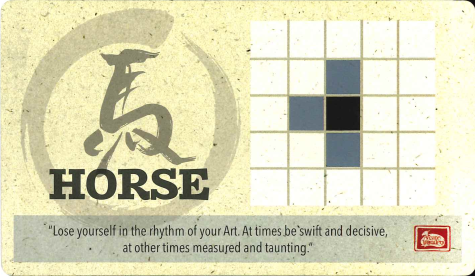
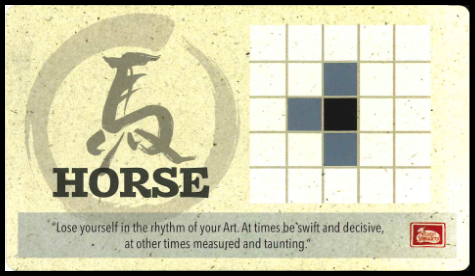
Fixed shit for torben

diff --git a/ImageTk.py b/ImageTk.py
@@ -1,0 +1,292 @@
+#
+# The Python Imaging Library.
+# $Id$
+#
+# a Tk display interface
+#
+# History:
+# 96-04-08 fl   Created
+# 96-09-06 fl   Added getimage method
+# 96-11-01 fl   Rewritten, removed image attribute and crop method
+# 97-05-09 fl   Use PyImagingPaste method instead of image type
+# 97-05-12 fl   Minor tweaks to match the IFUNC95 interface
+# 97-05-17 fl   Support the "pilbitmap" booster patch
+# 97-06-05 fl   Added file= and data= argument to image constructors
+# 98-03-09 fl   Added width and height methods to Image classes
+# 98-07-02 fl   Use default mode for "P" images without palette attribute
+# 98-07-02 fl   Explicitly destroy Tkinter image objects
+# 99-07-24 fl   Support multiple Tk interpreters (from Greg Couch)
+# 99-07-26 fl   Automatically hook into Tkinter (if possible)
+# 99-08-15 fl   Hook uses _imagingtk instead of _imaging
+#
+# Copyright (c) 1997-1999 by Secret Labs AB
+# Copyright (c) 1996-1997 by Fredrik Lundh
+#
+# See the README file for information on usage and redistribution.
+#
+
+try:
+    import tkinter
+except ImportError:
+    import Tkinter
+    tkinter = Tkinter
+    del Tkinter
+
+from PIL import Image
+
+
+# --------------------------------------------------------------------
+# Check for Tkinter interface hooks
+
+_pilbitmap_ok = None
+
+
+def _pilbitmap_check():
+    global _pilbitmap_ok
+    if _pilbitmap_ok is None:
+        try:
+            im = Image.new("1", (1, 1))
+            tkinter.BitmapImage(data="PIL:%d" % im.im.id)
+            _pilbitmap_ok = 1
+        except tkinter.TclError:
+            _pilbitmap_ok = 0
+    return _pilbitmap_ok
+
+
+# --------------------------------------------------------------------
+# PhotoImage
+
+class PhotoImage:
+    """
+    A Tkinter-compatible photo image.  This can be used
+    everywhere Tkinter expects an image object.  If the image is an RGBA
+    image, pixels having alpha 0 are treated as transparent.
+
+    The constructor takes either a PIL image, or a mode and a size.
+    Alternatively, you can use the **file** or **data** options to initialize
+    the photo image object.
+
+    :param image: Either a PIL image, or a mode string.  If a mode string is
+                  used, a size must also be given.
+    :param size: If the first argument is a mode string, this defines the size
+                 of the image.
+    :keyword file: A filename to load the image from (using
+                   ``Image.open(file)``).
+    :keyword data: An 8-bit string containing image data (as loaded from an
+                   image file).
+    """
+
+    def __init__(self, image=None, size=None, **kw):
+
+        # Tk compatibility: file or data
+        if image is None:
+            if "file" in kw:
+                image = Image.open(kw["file"])
+                del kw["file"]
+            elif "data" in kw:
+                from io import BytesIO
+                image = Image.open(BytesIO(kw["data"]))
+                del kw["data"]
+
+        if hasattr(image, "mode") and hasattr(image, "size"):
+            # got an image instead of a mode
+            mode = image.mode
+            if mode == "P":
+                # palette mapped data
+                image.load()
+                try:
+                    mode = image.palette.mode
+                except AttributeError:
+                    mode = "RGB"  # default
+            size = image.size
+            kw["width"], kw["height"] = size
+        else:
+            mode = image
+            image = None
+
+        if mode not in ["1", "L", "RGB", "RGBA"]:
+            mode = Image.getmodebase(mode)
+
+        self.__mode = mode
+        self.__size = size
+        self.__photo = tkinter.PhotoImage(**kw)
+        self.tk = self.__photo.tk
+        if image:
+            self.paste(image)
+
+    def __del__(self):
+        name = self.__photo.name
+        self.__photo.name = None
+        try:
+            self.__photo.tk.call("image", "delete", name)
+        except:
+            pass  # ignore internal errors
+
+    def __str__(self):
+        """
+        Get the Tkinter photo image identifier.  This method is automatically
+        called by Tkinter whenever a PhotoImage object is passed to a Tkinter
+        method.
+
+        :return: A Tkinter photo image identifier (a string).
+        """
+        return str(self.__photo)
+
+    def width(self):
+        """
+        Get the width of the image.
+
+        :return: The width, in pixels.
+        """
+        return self.__size[0]
+
+    def height(self):
+        """
+        Get the height of the image.
+
+        :return: The height, in pixels.
+        """
+        return self.__size[1]
+
+    def paste(self, im, box=None):
+        """
+        Paste a PIL image into the photo image.  Note that this can
+        be very slow if the photo image is displayed.
+
+        :param im: A PIL image. The size must match the target region.  If the
+                   mode does not match, the image is converted to the mode of
+                   the bitmap image.
+        :param box: A 4-tuple defining the left, upper, right, and lower pixel
+                    coordinate.  If None is given instead of a tuple, all of
+                    the image is assumed.
+        """
+
+        # convert to blittable
+        im.load()
+        image = im.im
+        if image.isblock() and im.mode == self.__mode:
+            block = image
+        else:
+            block = image.new_block(self.__mode, im.size)
+            image.convert2(block, image)  # convert directly between buffers
+
+        tk = self.__photo.tk
+
+        try:
+            tk.call("PyImagingPhoto", self.__photo, block.id)
+        except tkinter.TclError:
+            # activate Tkinter hook
+            try:
+                from PIL import _imagingtk
+                try:
+                    _imagingtk.tkinit(tk.interpaddr(), 1)
+                except AttributeError:
+                    _imagingtk.tkinit(id(tk), 0)
+                tk.call("PyImagingPhoto", self.__photo, block.id)
+            except (ImportError, AttributeError, tkinter.TclError):
+                raise  # configuration problem; cannot attach to Tkinter
+
+# --------------------------------------------------------------------
+# BitmapImage
+
+
+class BitmapImage:
+    """
+
+    A Tkinter-compatible bitmap image.  This can be used everywhere Tkinter
+    expects an image object.
+
+    The given image must have mode "1".  Pixels having value 0 are treated as
+    transparent.  Options, if any, are passed on to Tkinter.  The most commonly
+    used option is **foreground**, which is used to specify the color for the
+    non-transparent parts.  See the Tkinter documentation for information on
+    how to specify colours.
+
+    :param image: A PIL image.
+    """
+
+    def __init__(self, image=None, **kw):
+
+        # Tk compatibility: file or data
+        if image is None:
+            if "file" in kw:
+                image = Image.open(kw["file"])
+                del kw["file"]
+            elif "data" in kw:
+                from io import BytesIO
+                image = Image.open(BytesIO(kw["data"]))
+                del kw["data"]
+
+        self.__mode = image.mode
+        self.__size = image.size
+
+        if _pilbitmap_check():
+            # fast way (requires the pilbitmap booster patch)
+            image.load()
+            kw["data"] = "PIL:%d" % image.im.id
+            self.__im = image  # must keep a reference
+        else:
+            # slow but safe way
+            kw["data"] = image.tobitmap()
+        self.__photo = tkinter.BitmapImage(**kw)
+
+    def __del__(self):
+        name = self.__photo.name
+        self.__photo.name = None
+        try:
+            self.__photo.tk.call("image", "delete", name)
+        except:
+            pass  # ignore internal errors
+
+    def width(self):
+        """
+        Get the width of the image.
+
+        :return: The width, in pixels.
+        """
+        return self.__size[0]
+
+    def height(self):
+        """
+        Get the height of the image.
+
+        :return: The height, in pixels.
+        """
+        return self.__size[1]
+
+    def __str__(self):
+        """
+        Get the Tkinter bitmap image identifier.  This method is automatically
+        called by Tkinter whenever a BitmapImage object is passed to a Tkinter
+        method.
+
+        :return: A Tkinter bitmap image identifier (a string).
+        """
+        return str(self.__photo)
+
+
+def getimage(photo):
+    """Copies the contents of a PhotoImage to a PIL image memory."""
+    photo.tk.call("PyImagingPhotoGet", photo)
+
+
+# --------------------------------------------------------------------
+# Helper for the Image.show method.
+
+def _show(image, title):
+
+    class UI(tkinter.Label):
+        def __init__(self, master, im):
+            if im.mode == "1":
+                self.image = BitmapImage(im, foreground="white", master=master)
+            else:
+                self.image = PhotoImage(im, master=master)
+            tkinter.Label.__init__(self, master, image=self.image,
+                                   bg="black", bd=0)
+
+    if not tkinter._default_root:
+        raise IOError("tkinter not initialized")
+    top = tkinter.Toplevel()
+    if title:
+        top.title(title)
+    UI(top, image).pack()

diff --git a/Game.py b/Game.py
@@ -8,7 +8,9 @@ from Robots.RandomRebecca import RandomRebecca
 from Robots.FirstFinley import First_Finley
 
 import tkinter as tk
-from PIL import ImageTk, Image
+from PIL import Image
+import ImageTk
+
 root = tk.Tk()
 import random
 
@@ -41,7 +43,10 @@ def create_deck():
 
 def load_image(card):
     img = Image.open("res/" + card +".png")
-    #img = img.resize((200,200), Image.ANTIALIAS)
+    h = int(img.height//1.5)
+    w = int(img.width//1.5)
+    img = img.resize((w,h), Image.ANTIALIAS)
+    #img = ImageTk.PhotoImage(img)
     img = ImageTk.PhotoImage(img)
     return img
 
